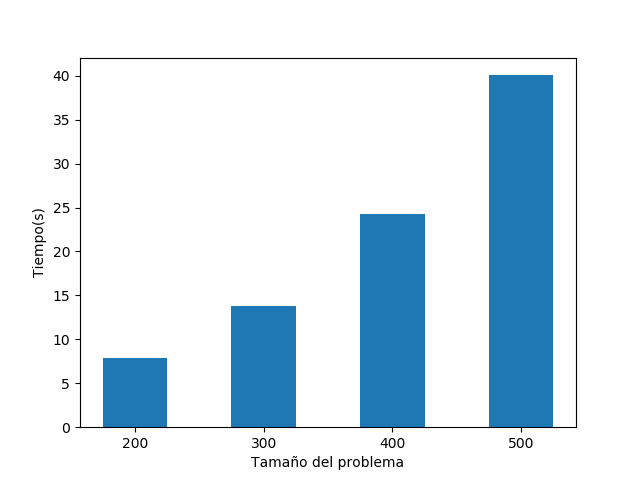
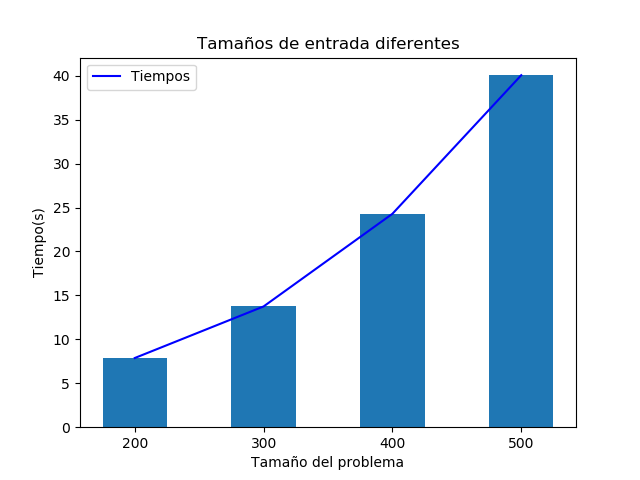
grafica 1 con leyenda

diff --git a/grafica1.py b/grafica1.py
@@ -1,15 +1,18 @@
 import matplotlib.pyplot as plt
-
+import numpy as np
 fig = plt.figure()
 ax = fig.add_subplot(111)
 datos = [7.874, 13.743, 24.289, 40.064]
 dimension = ["200", "300", "400", "500"]
 xx = range(len(datos))
-ax.barh(xx, datos, width = 0.5, align = "center")
-ax.xticks(xx)
-ax.xtickslabels(dimension)
-ax.setxlabel("Tamaño del problema")
-ax.setylabel("Tiempo(s)")
-ax.tittle("Tamaños de entrada diferentes")
+ax.bar(xx, datos, width = 0.5, align = "center")
+ax.set_xticks(xx)
+ax.set_xticklabels(dimension)
+ax.set_xlabel("Tamaño del problema")
+ax.set_ylabel("Tiempo(s)")
+plt.title("Tamaños de entrada diferentes")
+
+plt.plot(datos, color ='b', label = "Tiempos")
+plt.legend(loc="upper left")
 
 plt.show()
